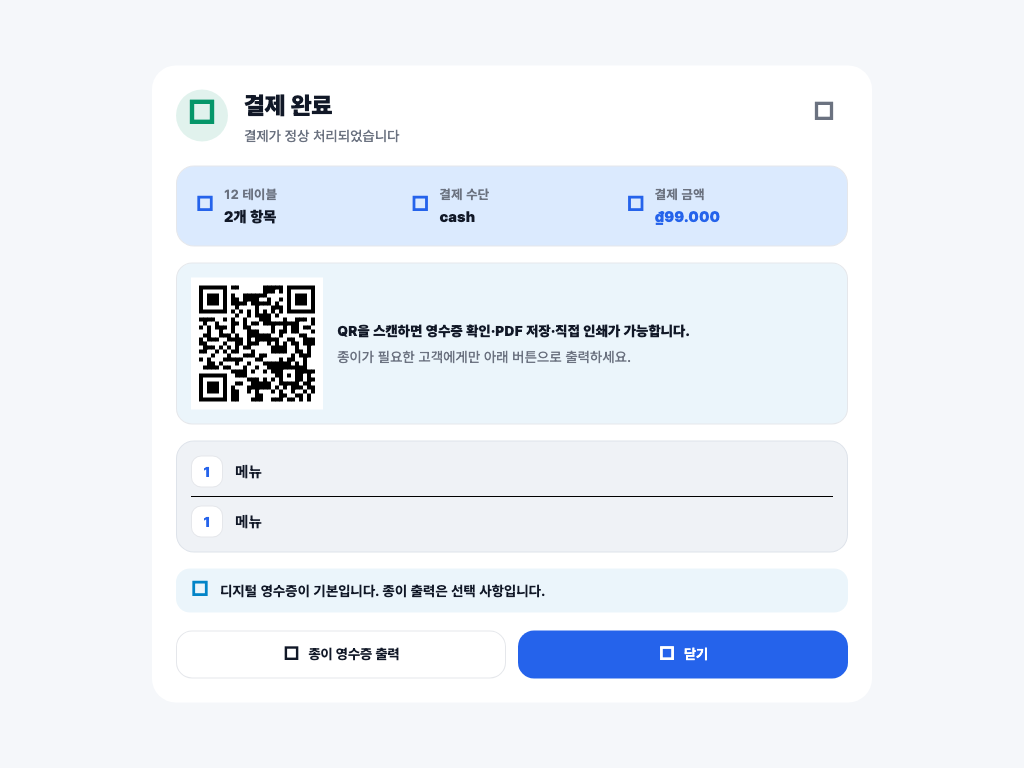
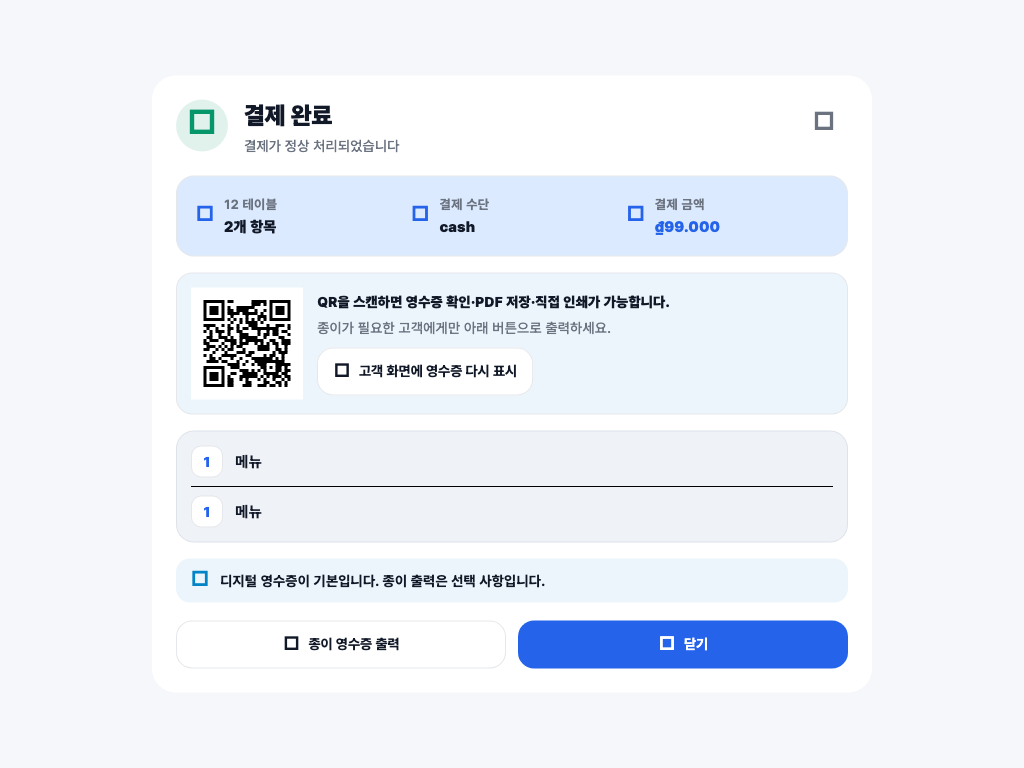
fix: reset and replay customer receipt display

diff --git a/lib/features/cashier/payment_completion_dialog.dart b/lib/features/cashier/payment_completion_dialog.dart
@@ -18,6 +18,7 @@ class PaymentCompletionDialog extends StatefulWidget {
     required this.onReprint,
     this.receiptAccess,
     this.onPaperReceipt,
+    this.onShowCustomerReceipt,
   });
 
   final CashierOrder order;
@@ -26,6 +27,7 @@ class PaymentCompletionDialog extends StatefulWidget {
   final Future<void> Function() onReprint;
   final DigitalReceiptAccess? receiptAccess;
   final Future<void> Function()? onPaperReceipt;
+  final Future<bool> Function()? onShowCustomerReceipt;
 
   @override
   State<PaymentCompletionDialog> createState() =>
@@ -35,6 +37,8 @@ class PaymentCompletionDialog extends StatefulWidget {
 class _PaymentCompletionDialogState extends State<PaymentCompletionDialog> {
   bool _isReprinting = false;
   bool _isPrintingPaper = false;
+  bool _isShowingCustomerReceipt = false;
+  bool? _customerReceiptShown;
 
   Future<void> _reprint() async {
     if (_isReprinting) return;
@@ -53,6 +57,22 @@ class _PaymentCompletionDialogState extends State<PaymentCompletionDialog> {
       await widget.onPaperReceipt!();
     } finally {
       if (mounted) setState(() => _isPrintingPaper = false);
+    }
+  }
+
+  Future<void> _showCustomerReceipt() async {
+    if (_isShowingCustomerReceipt || widget.onShowCustomerReceipt == null) {
+      return;
+    }
+    setState(() {
+      _isShowingCustomerReceipt = true;
+      _customerReceiptShown = null;
+    });
+    try {
+      final shown = await widget.onShowCustomerReceipt!();
+      if (mounted) setState(() => _customerReceiptShown = shown);
+    } finally {
+      if (mounted) setState(() => _isShowingCustomerReceipt = false);
     }
   }
 
@@ -213,7 +233,7 @@ class _PaymentCompletionDialogState extends State<PaymentCompletionDialog> {
                   child: Row(
                     children: [
                       SizedBox.square(
-                        dimension: 132,
+                        dimension: 112,
                         child: widget.receiptAccess == null
                             ? const Center(
                                 child: Icon(Icons.qr_code_2_rounded, size: 54),
@@ -245,6 +265,39 @@ class _PaymentCompletionDialogState extends State<PaymentCompletionDialog> {
                                 color: PosColors.textSecondary,
                               ),
                             ),
+                            if (widget.onShowCustomerReceipt != null) ...[
+                              const SizedBox(height: 10),
+                              OutlinedButton.icon(
+                                key: const Key(
+                                  'cashier_show_customer_receipt_again',
+                                ),
+                                onPressed: _isShowingCustomerReceipt
+                                    ? null
+                                    : _showCustomerReceipt,
+                                icon: _isShowingCustomerReceipt
+                                    ? const SizedBox.square(
+                                        dimension: 16,
+                                        child: CircularProgressIndicator(
+                                          strokeWidth: 2,
+                                        ),
+                                      )
+                                    : Icon(
+                                        _customerReceiptShown == true
+                                            ? Icons.check_circle_rounded
+                                            : _customerReceiptShown == false
+                                            ? Icons.error_outline_rounded
+                                            : Icons.monitor_rounded,
+                                        size: 18,
+                                      ),
+                                label: Text(
+                                  _customerReceiptShown == true
+                                      ? copy.customerReceiptShown
+                                      : _customerReceiptShown == false
+                                      ? copy.customerReceiptFailed
+                                      : copy.showCustomerReceiptAgain,
+                                ),
+                              ),
+                            ],
                           ],
                         ),
                       ),
@@ -425,6 +478,21 @@ class _CompletionCopy {
   );
   String get paperReceipt =>
       pick('종이 영수증 출력', 'In biên lai giấy', 'Print paper receipt');
+  String get showCustomerReceiptAgain => pick(
+    '고객 화면에 영수증 다시 표시',
+    'Hiển thị lại biên lai cho khách',
+    'Show receipt again for customer',
+  );
+  String get customerReceiptShown => pick(
+    '고객 화면에 다시 표시했습니다',
+    'Đã hiển thị lại cho khách',
+    'Shown again for the customer',
+  );
+  String get customerReceiptFailed => pick(
+    '다시 표시하지 못했습니다',
+    'Không thể hiển thị lại',
+    'Could not show it again',
+  );
 }
 
 class _CompletionMetric extends StatelessWidget {

diff --git a/lib/features/cashier/cashier_screen.dart b/lib/features/cashier/cashier_screen.dart
@@ -747,6 +747,13 @@ class _CashierScreenState extends ConsumerState<CashierScreen> {
         paymentMethod: method,
         cashTender: cashTender,
         receiptAccessByOrderId: receiptAccessByOrderId,
+        onShowCustomerReceipt: (order, access) => ref
+            .read(paymentProvider.notifier)
+            .showReceiptOnCustomerDisplay(
+              storeId: storeId,
+              orderId: order.orderId,
+              receiptId: access.receiptId,
+            ),
         onPaperReceipt: (order) => _printReceipt(order: order, method: method),
         onReprint: () async {
           for (final order in paymentOrders.where(
@@ -767,6 +774,7 @@ class _CashierScreenState extends ConsumerState<CashierScreen> {
   }
 
   Future<void> _showPaymentCompletion({
+    required String storeId,
     required CashierOrder order,
     required String paymentMethod,
     CashTender? cashTender,
@@ -780,6 +788,16 @@ class _CashierScreenState extends ConsumerState<CashierScreen> {
         paymentMethod: paymentMethod,
         cashTender: cashTender,
         receiptAccess: receiptAccess,
+        onShowCustomerReceipt:
+            order.fulfillmentMode.isPaperless && receiptAccess != null
+            ? () => ref
+                  .read(paymentProvider.notifier)
+                  .showReceiptOnCustomerDisplay(
+                    storeId: storeId,
+                    orderId: order.orderId,
+                    receiptId: receiptAccess.receiptId,
+                  )
+            : null,
         onPaperReceipt: () => _printReceipt(
           order: order,
           method: paymentMethod,
@@ -1653,6 +1671,7 @@ class _CashierScreenState extends ConsumerState<CashierScreen> {
 
                       if (context.mounted) {
                         await _showPaymentCompletion(
+                          storeId: storeId,
                           order: selectedOrder,
                           paymentMethod: method,
                           cashTender: cashTender,
@@ -1769,6 +1788,7 @@ class _CashierScreenState extends ConsumerState<CashierScreen> {
 
                       if (context.mounted) {
                         await _showPaymentCompletion(
+                          storeId: storeId,
                           order: selectedOrder,
                           paymentMethod: 'SPLIT',
                           receiptAccess: receiptAccess,
@@ -5444,6 +5464,7 @@ class _CombinedPaymentCompletionDialog extends StatelessWidget {
     required this.paymentMethod,
     required this.cashTender,
     required this.receiptAccessByOrderId,
+    required this.onShowCustomerReceipt,
     required this.onPaperReceipt,
     required this.onReprint,
   });
@@ -5453,6 +5474,8 @@ class _CombinedPaymentCompletionDialog extends StatelessWidget {
   final String paymentMethod;
   final CashTender? cashTender;
   final Map<String, DigitalReceiptAccess?> receiptAccessByOrderId;
+  final Future<bool> Function(CashierOrder order, DigitalReceiptAccess access)
+  onShowCustomerReceipt;
   final Future<void> Function(CashierOrder order) onPaperReceipt;
   final Future<void> Function() onReprint;
 
@@ -5503,7 +5526,7 @@ class _CombinedPaymentCompletionDialog extends StatelessWidget {
             if (paperlessOrders.isNotEmpty) ...[
               const SizedBox(height: 14),
               SizedBox(
-                height: 210,
+                height: 252,
                 child: ListView.separated(
                   scrollDirection: Axis.horizontal,
                   itemCount: paperlessOrders.length,
@@ -5536,6 +5559,24 @@ class _CombinedPaymentCompletionDialog extends StatelessWidget {
                                     data: access.publicUrl,
                                     backgroundColor: Colors.white,
                                   ),
+                          ),
+                          TextButton.icon(
+                            key: ValueKey(
+                              'cashier_combined_show_customer_receipt_${order.orderId}',
+                            ),
+                            onPressed: access == null
+                                ? null
+                                : () => unawaited(
+                                    onShowCustomerReceipt(order, access),
+                                  ),
+                            icon: const Icon(Icons.monitor_rounded, size: 16),
+                            label: Text(switch (Localizations.localeOf(
+                              context,
+                            ).languageCode) {
+                              'vi' => 'Màn hình khách',
+                              'en' => 'Customer screen',
+                              _ => '고객 화면',
+                            }),
                           ),
                           TextButton.icon(
                             key: ValueKey(

diff --git a/lib/features/customer_display/customer_display_provider.dart b/lib/features/customer_display/customer_display_provider.dart
@@ -123,14 +123,18 @@ class CustomerDisplayState {
 }
 
 class CustomerDisplayNotifier extends StateNotifier<CustomerDisplayState> {
-  CustomerDisplayNotifier() : super(const CustomerDisplayState());
+  CustomerDisplayNotifier({Duration receiptDuration = receiptDisplayDuration})
+    : _receiptDuration = receiptDuration,
+      super(const CustomerDisplayState());
 
   // A subscribed socket does not guarantee that Postgres change events are
   // actually reaching this device. Keep the indexed single-row fallback fast
   // even while Realtime reports a healthy connection.
   static const _connectedHealthRefreshInterval = Duration(seconds: 1);
   static const _disconnectedRefreshInterval = Duration(seconds: 1);
-  static const receiptDisplayDuration = Duration(seconds: 90);
+  static const receiptDisplayDuration = Duration(seconds: 10);
+
+  final Duration _receiptDuration;
 
   RealtimeChannel? _channel;
   Timer? _pollTimer;
@@ -259,7 +263,7 @@ class CustomerDisplayNotifier extends StateNotifier<CustomerDisplayState> {
       if (revision != null && revision != _visibleReceiptRevision) {
         _visibleReceiptRevision = revision;
         _receiptTimer?.cancel();
-        _receiptTimer = Timer(receiptDisplayDuration, () {
+        _receiptTimer = Timer(_receiptDuration, () {
           if (!mounted || _storeId != storeId) return;
           _hiddenReceiptRevision = revision;
           state = const CustomerDisplayState();
@@ -271,6 +275,12 @@ class CustomerDisplayNotifier extends StateNotifier<CustomerDisplayState> {
       _hiddenReceiptRevision = null;
     }
     state = CustomerDisplayState(snapshot: snapshot);
+  }
+
+  @visibleForTesting
+  void applyRowForTesting(String storeId, Map<String, dynamic>? row) {
+    _storeId = storeId;
+    _applyRow(storeId, row);
   }
 
   Future<void> _resolveReceiptLink(

diff --git a/test/customer_payment_display_contract_test.dart b/test/customer_payment_display_contract_test.dart
@@ -90,6 +90,45 @@ void main() {
     },
   );
 
+  test(
+    'receipt returns home after ten seconds and a new revision replays',
+    () async {
+      expect(
+        CustomerDisplayNotifier.receiptDisplayDuration,
+        const Duration(seconds: 10),
+      );
+      final notifier = CustomerDisplayNotifier(
+        receiptDuration: const Duration(milliseconds: 20),
+      );
+      addTearDown(notifier.dispose);
+
+      Map<String, dynamic> receiptRow(String revision) => {
+        'store_id': 'store-1',
+        'status': 'showing',
+        'payload': {
+          'phase': 'receipt',
+          'display_revision': revision,
+          'order_id': 'order-1',
+          'table_number': '12',
+          'total': 99000,
+        },
+      };
+
+      notifier.applyRowForTesting('store-1', receiptRow('revision-1'));
+      expect(notifier.state.snapshot?.isReceipt, isTrue);
+      await Future<void>.delayed(const Duration(milliseconds: 30));
+      expect(notifier.state.snapshot, isNull);
+
+      notifier.applyRowForTesting('store-1', receiptRow('revision-1'));
+      expect(notifier.state.snapshot, isNull);
+
+      notifier.applyRowForTesting('store-1', receiptRow('revision-2'));
+      expect(notifier.state.snapshot?.displayRevision, 'revision-2');
+      await Future<void>.delayed(const Duration(milliseconds: 30));
+      expect(notifier.state.snapshot, isNull);
+    },
+  );
+
   test('order item exposes the Vietnamese name for customer display', () {
     final item = OrderItem(
       id: 'item-1',

diff --git a/test/pos_paperless_receipt_contract_test.dart b/test/pos_paperless_receipt_contract_test.dart
@@ -134,9 +134,11 @@ void main() {
     tester,
   ) async {
     var paperPrints = 0;
+    var customerReceiptReplays = 0;
     final order = _fixtureOrder(FulfillmentMode.paperless);
     await tester.pumpWidget(
       MaterialApp(
+        locale: const Locale('ko'),
         localizationsDelegates: AppLocalizations.localizationsDelegates,
         supportedLocales: AppLocalizations.supportedLocales,
         home: Scaffold(
@@ -150,6 +152,10 @@ void main() {
               publicUrl: 'https://pos.globos.world/receipt#token=token',
             ),
             onPaperReceipt: () async => paperPrints += 1,
+            onShowCustomerReceipt: () async {
+              customerReceiptReplays += 1;
+              return true;
+            },
             onReprint: () async {},
           ),
         ),
@@ -166,6 +172,14 @@ void main() {
       find.byKey(const Key('cashier_payment_completion_reprint')),
       findsNothing,
     );
+    final replayButton = find.byKey(
+      const Key('cashier_show_customer_receipt_again'),
+    );
+    expect(replayButton, findsOne);
+    await tester.tap(replayButton);
+    await tester.pumpAndSettle();
+    expect(customerReceiptReplays, 1);
+    expect(find.text('고객 화면에 다시 표시했습니다'), findsOne);
     await tester.tap(
       find.byKey(const Key('cashier_payment_completion_paper_receipt')),
     );

diff --git a/test/pos_paperless_visual_test.dart b/test/pos_paperless_visual_test.dart
@@ -168,6 +168,7 @@ void main() {
             paymentMethod: 'cash',
             receiptAccess: _receiptAccess,
             onPaperReceipt: () async {},
+            onShowCustomerReceipt: () async => true,
             onReprint: () async {},
           ),
         ),
